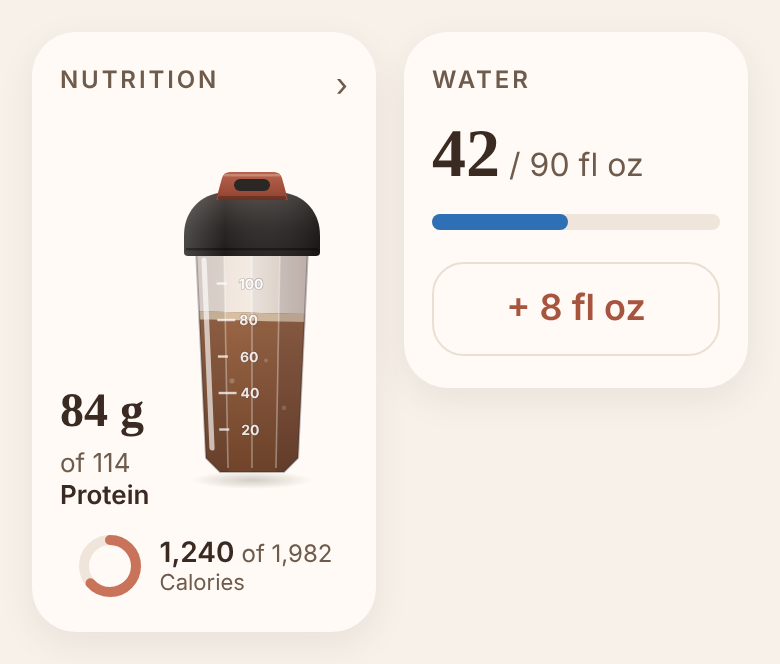
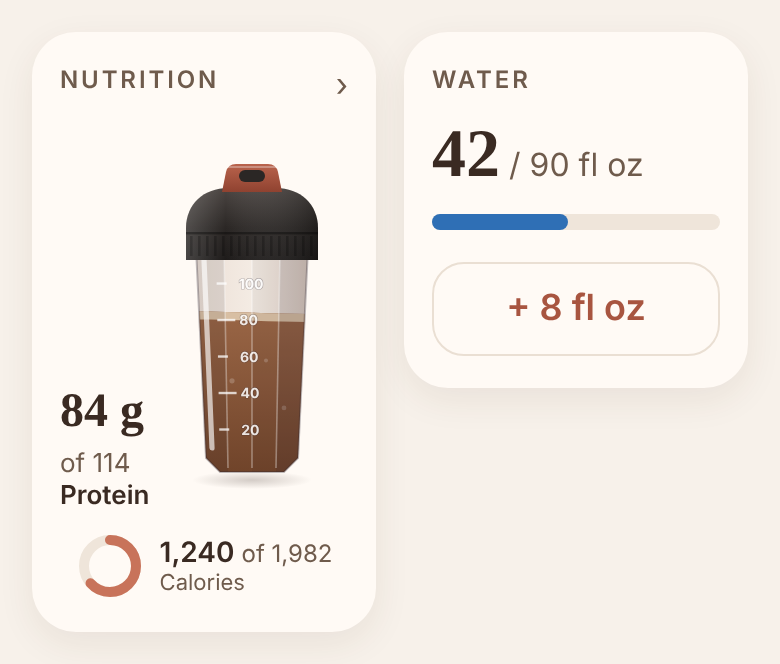
Shaker mockup: lid B chosen by owner
Claude-Session: https://claude.ai/code/session_01E8m8svjFKtLT3zDarJmxVH

Changed region(s): [[0.2462, 0.241, 0.4, 0.3012], [0.2154, 0.3614, 0.4308, 0.3916]]

diff --git a/docs/mockups/18-shaker.html b/docs/mockups/18-shaker.html
@@ -19,7 +19,7 @@
 </div></div>
 <script>
 const GOAL = 114;
-let LID = 'a';
+let LID = 'b';
 // Lid A: low, wide dome seen slightly from above; flip cover lies flat with an upright carry loop at the back.
 function lidA() {
   return `
